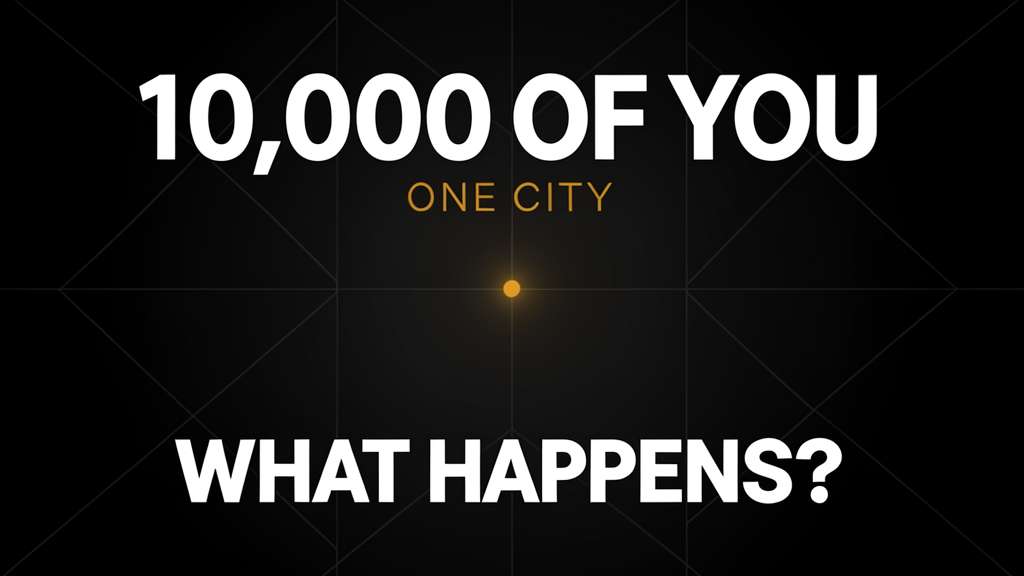
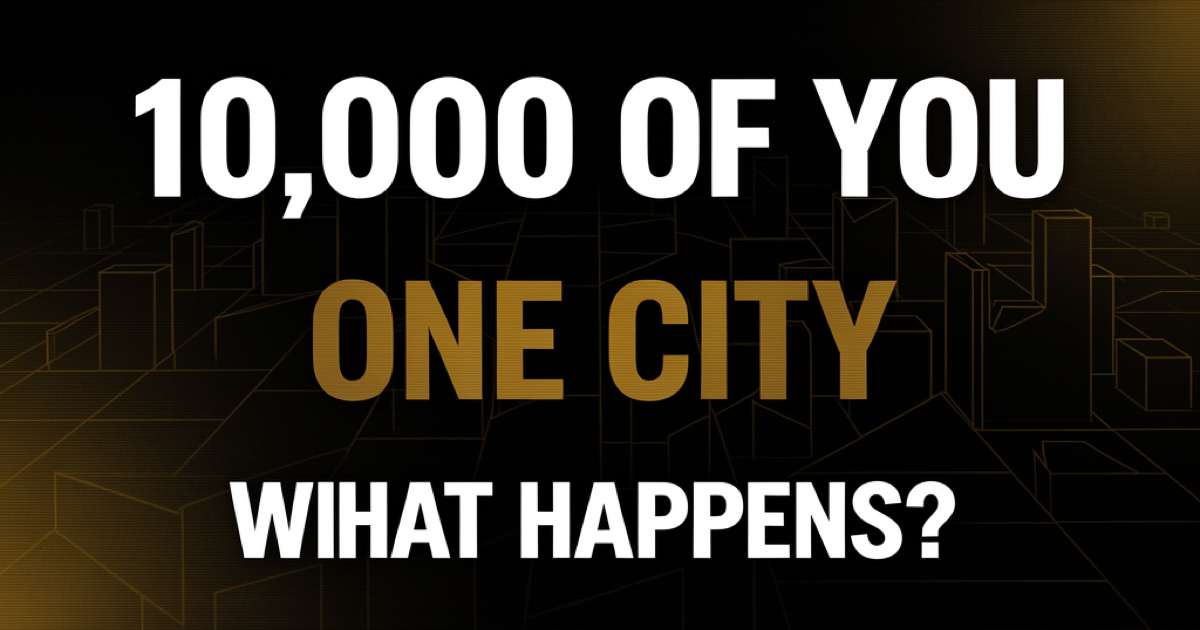
Fix copy to match actual question count (32) and archetype count (9)
- Landing.tsx: 20 questions → 32, 8 archetypes → 9, ~5 min → ~8 min
- index.html: Meta descriptions now list all 9 archetypes correctly
  (removed fake 'Opportunist' name, added Critic/Hustler/Follower/Performer/Olodo)
- data.ts: Comment updated from 25 → 32 questions
- OG image: Regenerated at correct 1200×630px (was 1024×576)

diff --git a/client/index.html b/client/index.html
@@ -10,7 +10,7 @@
     <!-- Primary Meta Tags -->
     <title>Olodo Uprising — 10,000 of You. One City. What Happens?</title>
     <meta name="title" content="Olodo Uprising — 10,000 of You. One City. What Happens?" />
-    <meta name="description" content="A behavioral archetype assessment tool. If we replicated you 10,000 times, what kind of society would emerge? Discover if you're a Builder, Sage, Skeptic, Opportunist, or Intellectual." />
+    <meta name="description" content="A behavioral archetype assessment tool. If we replicated you 10,000 times, what kind of society would emerge? 32 questions. 9 archetypes. Discover if you're a Builder, Sage, Critic, Hustler, Follower, Performer, Skeptic, Intellectual, or Olodo." />
     <meta name="keywords" content="behavioral assessment, personality archetypes, social simulation, Nigerian society, moral foundations, cognitive dissonance, personality test, societal outcomes" />
     <meta name="author" content="Temisan Gerrard" />
     <meta name="robots" content="index, follow" />
@@ -20,7 +20,7 @@
     <meta property="og:type" content="website" />
     <meta property="og:url" content="https://olodo-uprising.pages.dev" />
     <meta property="og:title" content="Olodo Uprising — 10,000 of You. One City. What Happens?" />
-    <meta property="og:description" content="A behavioral archetype assessment tool. If we replicated you 10,000 times, what kind of society would emerge? Discover if you're a Builder, Sage, Skeptic, Opportunist, or Intellectual." />
+    <meta property="og:description" content="A behavioral archetype assessment tool. If we replicated you 10,000 times, what kind of society would emerge? 32 questions. 9 archetypes. Discover if you're a Builder, Sage, Critic, Hustler, Follower, Performer, Skeptic, Intellectual, or Olodo." />
     <meta property="og:image" content="https://olodo-uprising.pages.dev/og-image.png" />
     <meta property="og:image:width" content="1200" />
     <meta property="og:image:height" content="630" />
@@ -30,7 +30,7 @@
     <meta name="twitter:card" content="summary_large_image" />
     <meta name="twitter:url" content="https://olodo-uprising.pages.dev" />
     <meta name="twitter:title" content="Olodo Uprising — 10,000 of You. One City. What Happens?" />
-    <meta name="twitter:description" content="A behavioral archetype assessment tool. If we replicated you 10,000 times, what kind of society would emerge? Discover if you're a Builder, Sage, Skeptic, Opportunist, or Intellectual." />
+    <meta name="twitter:description" content="A behavioral archetype assessment tool. If we replicated you 10,000 times, what kind of society would emerge? 32 questions. 9 archetypes. Discover if you're a Builder, Sage, Critic, Hustler, Follower, Performer, Skeptic, Intellectual, or Olodo." />
     <meta name="twitter:image" content="https://olodo-uprising.pages.dev/og-image.png" />
     
     <!-- Theme Color -->
@@ -43,7 +43,7 @@
       "@type": "WebApplication",
       "name": "Olodo Uprising",
       "url": "https://olodo-uprising.pages.dev",
-      "description": "A behavioral archetype assessment tool. If we replicated you 10,000 times, what kind of society would emerge?",
+      "description": "A behavioral archetype assessment tool. If we replicated you 10,000 times, what kind of society would emerge? 32 questions. 9 archetypes.",
       "applicationCategory": "EducationalApplication",
       "operatingSystem": "Web",
       "offers": {

diff --git a/client/src/pages/Landing.tsx b/client/src/pages/Landing.tsx
@@ -138,7 +138,7 @@ export default function Landing() {
           className="text-lg md:text-xl leading-relaxed mb-4"
           style={{ color: "oklch(0.65 0.01 260)", fontFamily: "'Inter', sans-serif", maxWidth: "540px" }}
         >
-          Answer 20 questions about how you think, decide, and behave. We will classify your cognitive archetype — then simulate what society looks like if 10,000 people exactly like you lived in a radius.
+          Answer 32 questions about how you think, decide, and behave. We will classify your cognitive archetype — then simulate what society looks like if 10,000 people exactly like you lived in a radius.
         </motion.p>
 
         <motion.p
@@ -185,11 +185,11 @@ export default function Landing() {
             className="flex items-center gap-2 text-xs font-mono"
             style={{ color: "oklch(0.40 0.01 260)", fontFamily: "'JetBrains Mono', monospace", paddingTop: "14px" }}
           >
-            <span>~5 minutes</span>
+            <span>~8 minutes</span>
             <span style={{ color: "oklch(0.25 0.01 260)" }}>·</span>
-            <span>20 questions</span>
+            <span>32 questions</span>
             <span style={{ color: "oklch(0.25 0.01 260)" }}>·</span>
-            <span>8 archetypes</span>
+            <span>9 archetypes</span>
           </div>
         </motion.div>
       </main>

diff --git a/client/src/lib/data.ts b/client/src/lib/data.ts
@@ -60,7 +60,7 @@ export interface Archetype {
 }
 
 // ============================================================
-// QUESTION BANK (25 questions)
+// QUESTION BANK (32 questions)
 // Nigerian context — forces ownership of real behaviors
 // Reveals archetypes through moral, religious, ethnic, and economic choices
 // ============================================================